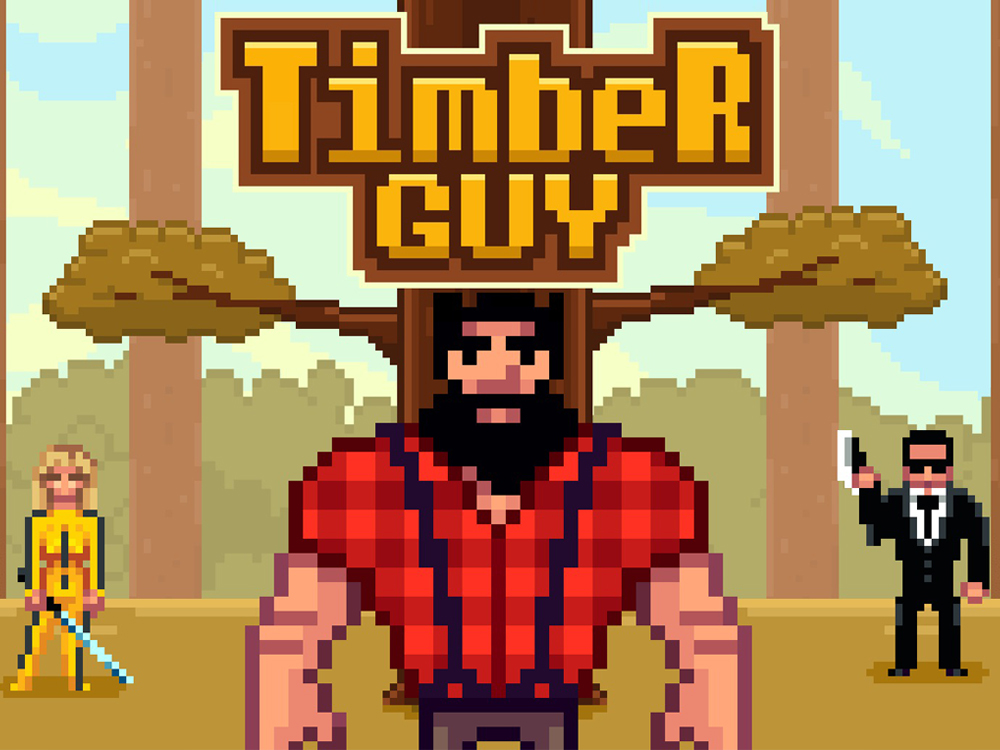
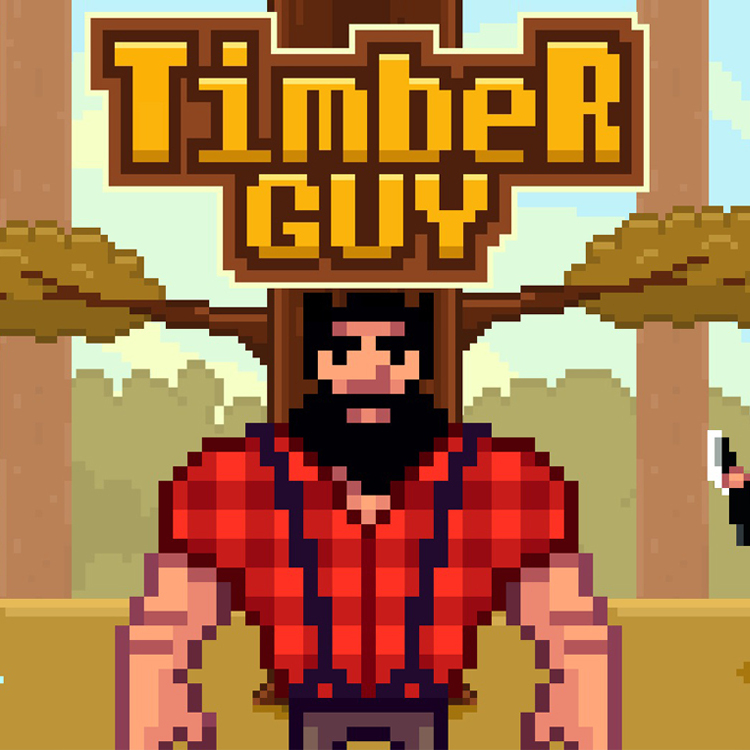
redising

diff --git a/src/index.html b/src/index.html
@@ -21,46 +21,53 @@
         setThemeClass();
     </script>
     <style>
+        body {
+            background-color: #f0f0f0;
+        }
+
         .game-table {
-            margin-top: 10vw;
+            margin-top: 3vw;
             width: 100%;
             border-collapse: collapse;
         }
 
         .game-table td {
-            padding: 1vw;
+            padding: 2vw;
             vertical-align: middle;
         }
 
         .game-table img {
-            max-width: 20vw;
+            max-width: 18vw;
             min-width: 100%;
+            border-radius: 3vw;
             vertical-align: middle;
             height: auto;
         }
 
         #game-name {
-            color: #000000;
+            color: #222222;
             font-family: Arial, sans-serif;
-            font-size: 4vw;
+            font-size: 4.3vw;
             font-weight: bold;
         }
 
         #game-desc {
-            color: #b6b6b6;
+            color: #9e9b9b;
             font-family: Arial, sans-serif;
-            font-size: 3vw;
+            font-size: 3.5vw;
+            margin-top: 1.5vw;
+            display: block;
         }
 
         #play-button {
             margin-top: 2vw;
             padding: 1vw 3vw;
-            background-color: #d6d6d6;
-            color: #2a6eff;
+            background-color: #dddddd;
+            color: #2d93cf;
             border-radius: 3vw;
             text-decoration: none;
             font-family: Arial, sans-serif;
-            font-size: 3.5vw;
+            font-size: 4vw;
             text-transform: uppercase;
             font-weight: bold;
             display: inline-block;
@@ -71,13 +78,13 @@
         #soon-button {
             pointer-events: none;
             margin-top: 2vw;
-            padding: 1vw 3vw;
+            padding: 1vw 4vw;
             background-color: #bebebe;
-            color: #2a6eff;
+            color: #2d93cf;
             border-radius: 3vw;
             text-decoration: none;
             font-family: Arial, sans-serif;
-            font-size: 3.5vw;
+            font-size: 4vw;
             text-transform: uppercase;
             font-weight: bold;
             display: inline-block;
@@ -94,7 +101,7 @@
             border-radius: 5vw;
             text-decoration: none;
             font-family: Arial, sans-serif;
-            font-size: 4vw;
+            font-size: 4.2vw;
             text-transform: uppercase;
             font-weight: bold;
             position: fixed;
@@ -131,7 +138,7 @@
         function loadGames() {
             const gamesTable = document.getElementById('game-table');
             
-            fetch('http://127.0.0.1:5500/src/games.json')
+            fetch('games.json')
                 .then(response => response.json())
                 .then(data => {
                     data.forEach(game => {
